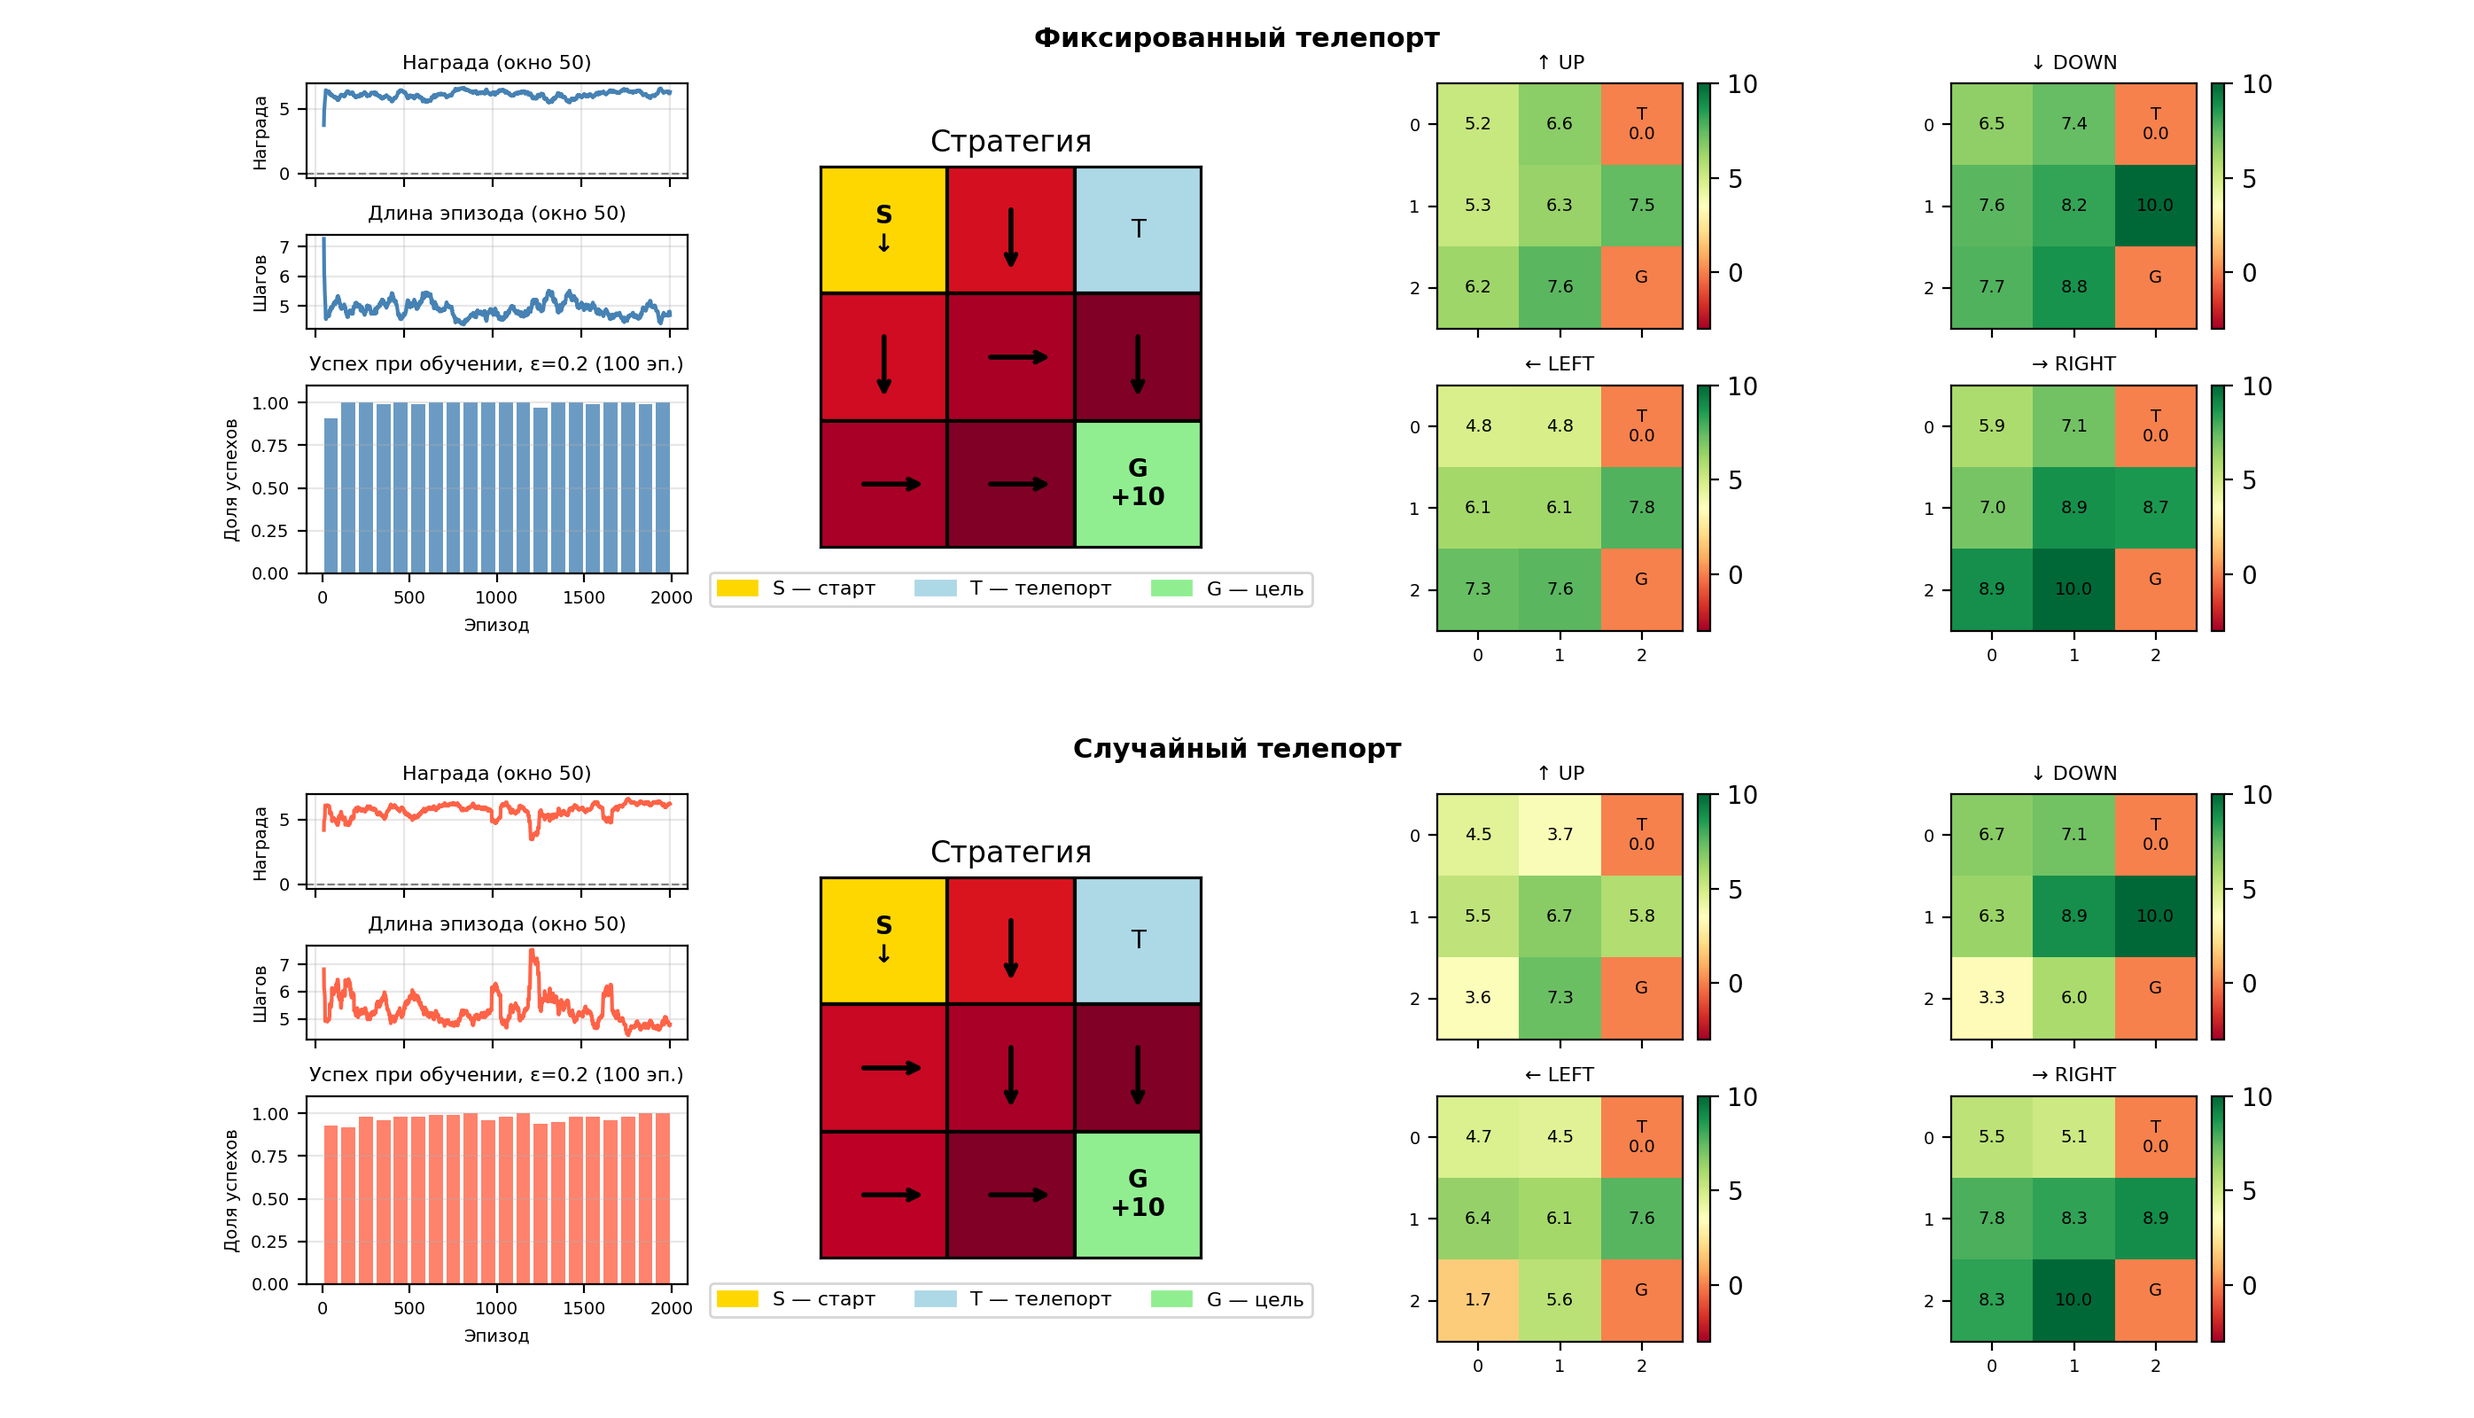
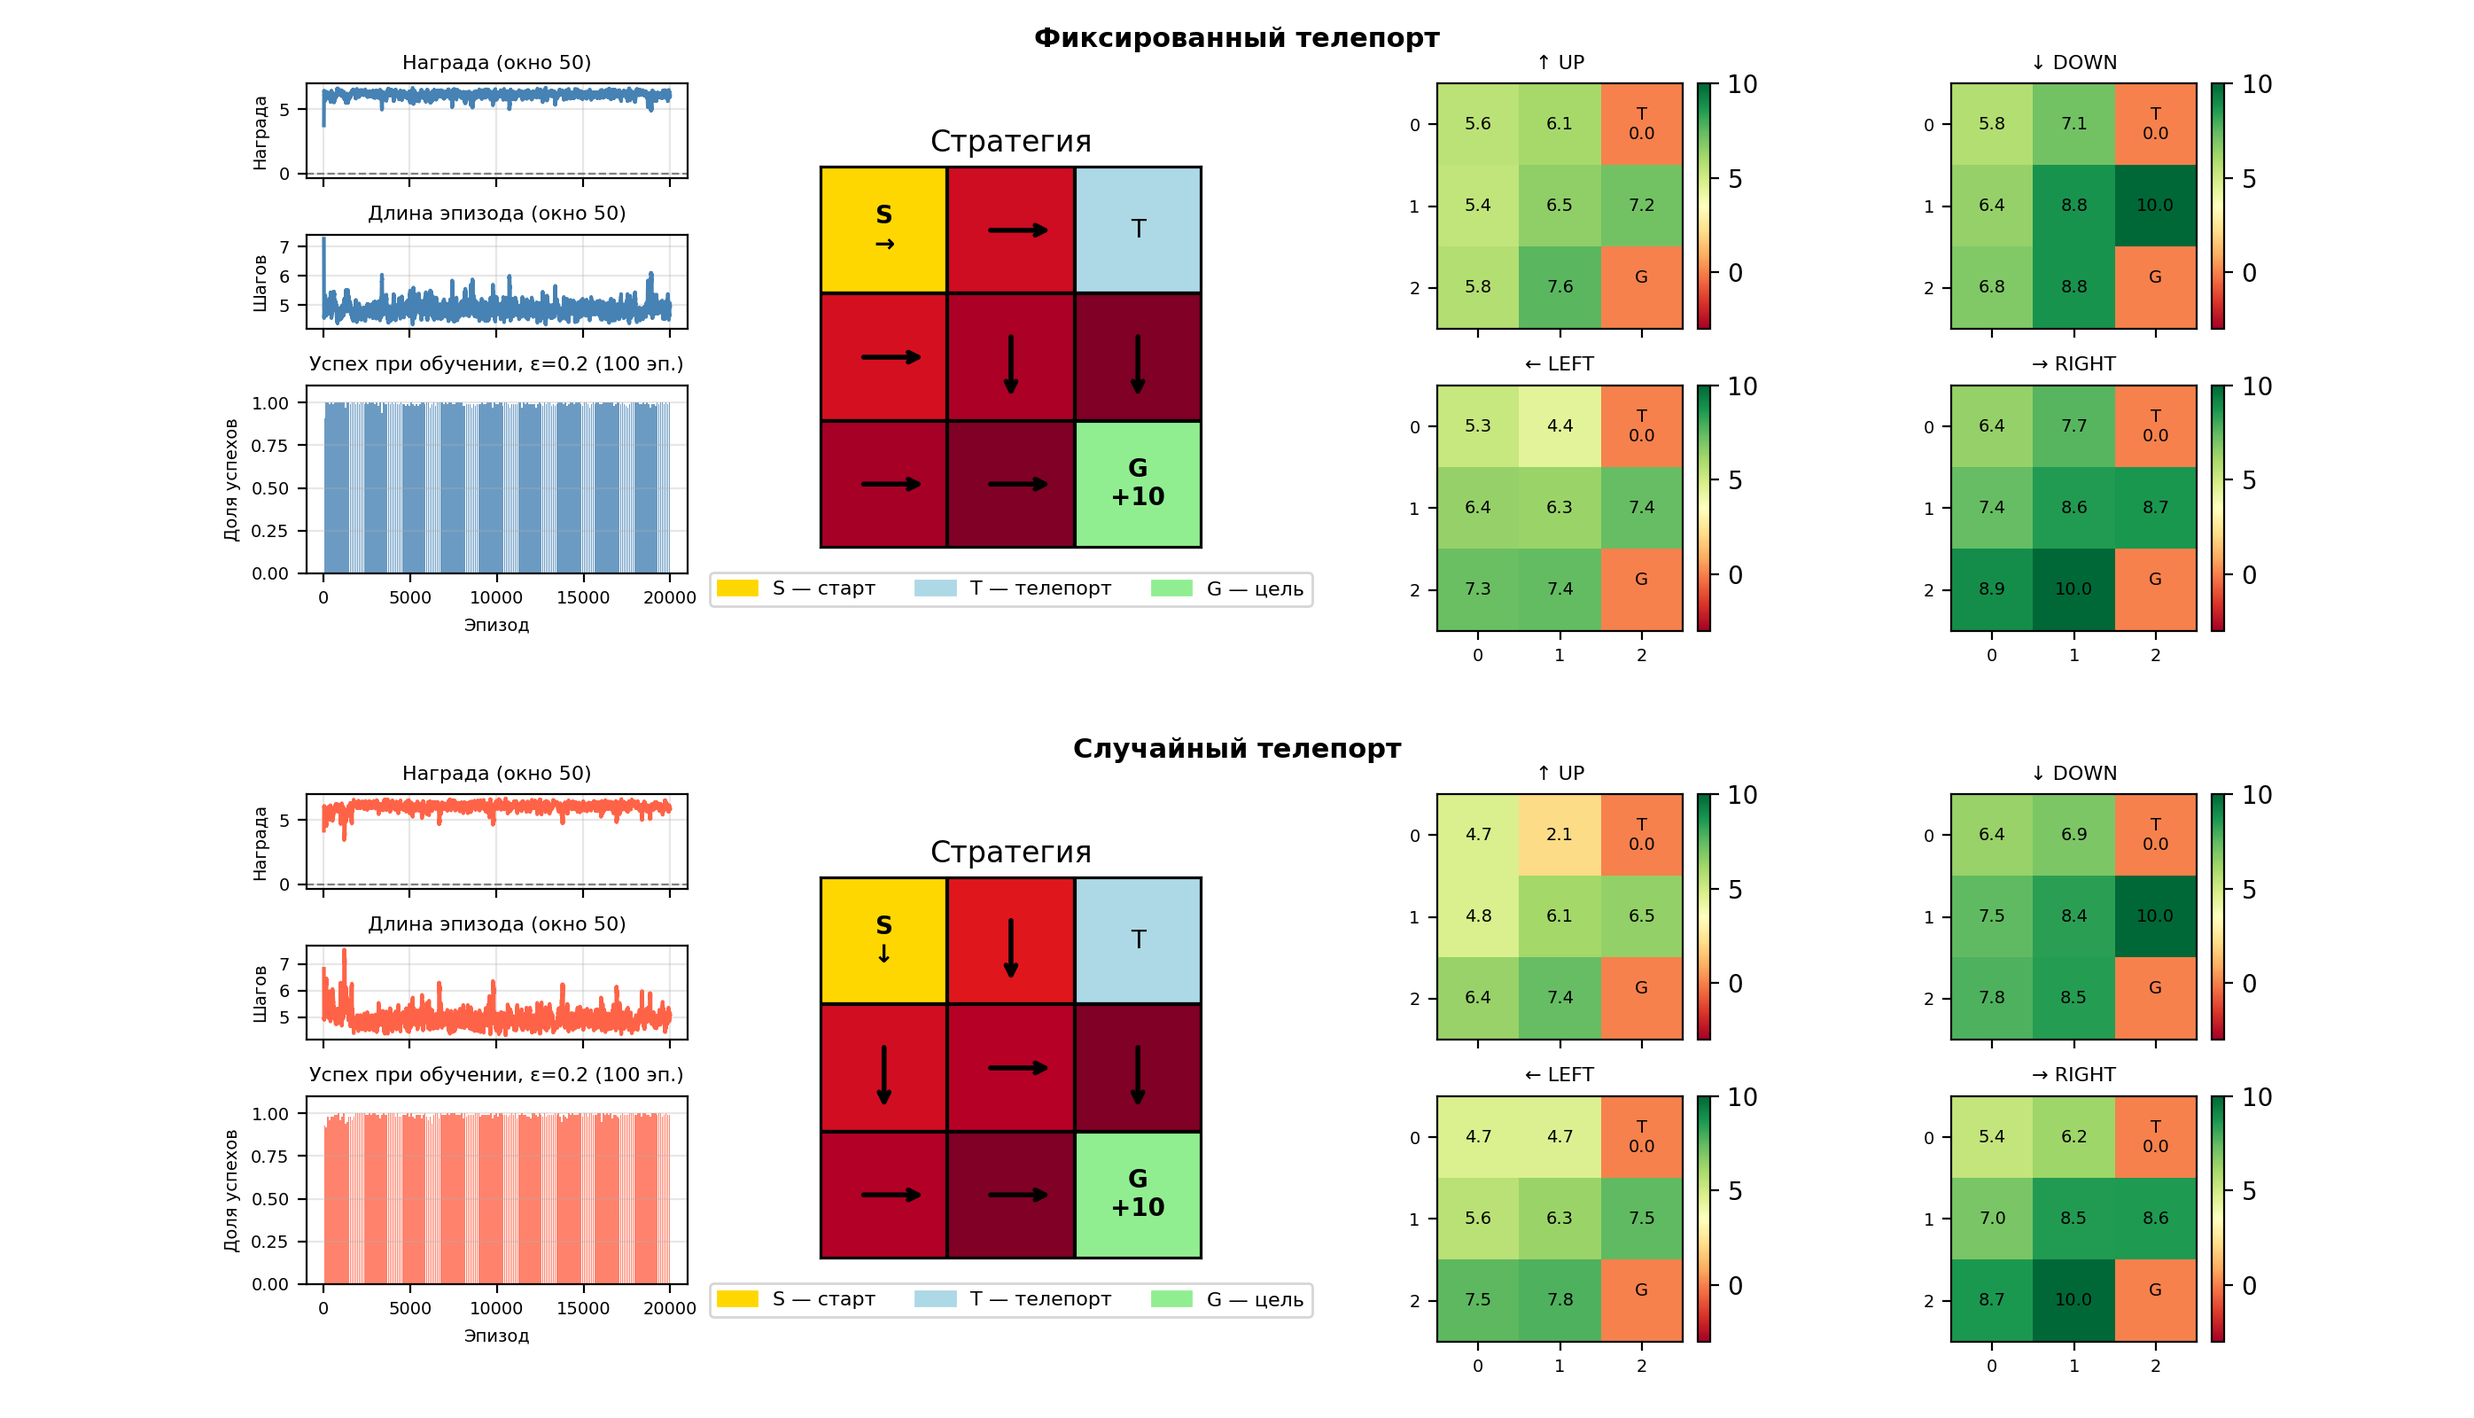
Codex+Mark: finding better number for the amount of episodes and adding information about it into the Reports.

diff --git a/Обучение с подкреплением/Задание 2/my/direct_learning.py b/Обучение с подкреплением/Задание 2/my/direct_learning.py
@@ -451,7 +451,10 @@ def train(env, episodes_count, label):
 
 def main():
     random.seed(42)
-    episodes_count = 2000
+    # episodes_count = 2000
+    # episodes_count = 5000
+    # episodes_count = 10000
+    episodes_count = 20000
 
     print("=" * 50)
     print("  Вариант 9. GridWorld 3×3 с телепортом")
@@ -572,6 +575,13 @@ def main():
   — случайный телепорт непредсказуем: возможно попадание в далёкие
     клетки (например, (0,0)), что увеличивает путь до цели.
 В результате агент в обоих случаях предпочёл детерминированный маршрут.
+
+Выбор количества эпизодов: при 2000 эпизодах агент уже достигает цели
+в 100% жадных запусков, однако оценки Q(s,a) для симметричных направлений
+(например, ↑ и ← из клеток, равноудалённых от цели) заметно расходились —
+Monte Carlo требует много посещений каждой пары (s,a) для сходимости оценок.
+При 20000 эпизодах Q-значения симметричных направлений выравниваются,
+что говорит о более полной сходимости таблицы Q.
 """)
 
     # ── Графики ────────────────────────────────────────────────────────────

diff --git a/Обучение с подкреплением/Задание 2/my/REPORT.md b/Обучение с подкреплением/Задание 2/my/REPORT.md
@@ -39,65 +39,64 @@
     после каждого эпизода вычисляются возвраты G_t = r + γ·G
     и обновляются оценки: Q(s,a) ← Q(s,a) + α·(G_t − Q(s,a)).
 
-Параметры: α=0.1, γ=1.0, ε=0.2, эпизодов=2000.
+Параметры: α=0.1, γ=1.0, ε=0.2, эпизодов=20000.
 
 
 ──────────────────────────────────────────────────
-  Обучение: фиксированный телепорт → (2, 0)  (2000 эпизодов)
+  Обучение: фиксированный телепорт → (2, 0)  (20000 эпизодов)
 ──────────────────────────────────────────────────
   После  100 эп. │ Успех (ε=0): 100%  │ Ср. длина: 4.0 шагов
   После  500 эп. │ Успех (ε=0): 100%  │ Ср. длина: 4.0 шагов
   После 1000 эп. │ Успех (ε=0): 100%  │ Ср. длина: 4.0 шагов
-  После 2000 эп. │ Успех (ε=0): 100%  │ Ср. длина: 4.0 шагов
+  После 20000 эп. │ Успех (ε=0): 100%  │ Ср. длина: 4.0 шагов
 
   Финальная стратегия:
 Таблица Q(s, a) [фиксированный]:
-    (0,0)  ↑=  5.24  ↓=  6.51  ←=  4.80  →=  5.89
-    (0,1)  ↑=  6.64  ↓=  7.38  ←=  4.85  →=  7.11
+    (0,0)  ↑=  5.58  ↓=  5.77  ←=  5.28  →=  6.41
+    (0,1)  ↑=  6.06  ↓=  7.12  ←=  4.45  →=  7.66
    T(0,2)  ↑=  0.00  ↓=  0.00  ←=  0.00  →=  0.00
-    (1,0)  ↑=  5.26  ↓=  7.59  ←=  6.14  →=  7.01
-    (1,1)  ↑=  6.35  ↓=  8.24  ←=  6.14  →=  8.86
-    (1,2)  ↑=  7.46  ↓= 10.00  ←=  7.75  →=  8.66
-    (2,0)  ↑=  6.21  ↓=  7.72  ←=  7.35  →=  8.93
-    (2,1)  ↑=  7.58  ↓=  8.80  ←=  7.60  →= 10.00
+    (1,0)  ↑=  5.42  ↓=  6.43  ←=  6.40  →=  7.37
+    (1,1)  ↑=  6.54  ↓=  8.79  ←=  6.31  →=  8.55
+    (1,2)  ↑=  7.16  ↓= 10.00  ←=  7.38  →=  8.68
+    (2,0)  ↑=  5.78  ↓=  6.80  ←=  7.29  →=  8.95
+    (2,1)  ↑=  7.61  ↓=  8.81  ←=  7.43  →= 10.00
 
 Стратегия агента [фиксированный]:
+  [→] →  T 
+   →  ↓  ↓ 
+   →  →  G 
+
+Анализ телепорта [фиксированный]:
+  Q((0,1), →)=7.66  Q((0,1), ↓)=7.12
+  Вывод: агент предпочитает использовать телепорт — он сокращает путь к цели.
+
+
+──────────────────────────────────────────────────
+  Обучение: случайный телепорт  (20000 эпизодов)
+──────────────────────────────────────────────────
+  После  100 эп. │ Успех (ε=0): 100%  │ Ср. длина: 4.0 шагов
+  После  500 эп. │ Успех (ε=0): 100%  │ Ср. длина: 4.0 шагов
+  После 1000 эп. │ Успех (ε=0): 100%  │ Ср. длина: 4.0 шагов
+  После 20000 эп. │ Успех (ε=0): 100%  │ Ср. длина: 4.0 шагов
+
+  Финальная стратегия:
+Таблица Q(s, a) [случайный]:
+    (0,0)  ↑=  4.72  ↓=  6.39  ←=  4.69  →=  5.36
+    (0,1)  ↑=  2.08  ↓=  6.92  ←=  4.67  →=  6.22
+   T(0,2)  ↑=  0.00  ↓=  0.00  ←=  0.00  →=  0.00
+    (1,0)  ↑=  4.75  ↓=  7.51  ←=  5.60  →=  6.99
+    (1,1)  ↑=  6.13  ↓=  8.39  ←=  6.31  →=  8.54
+    (1,2)  ↑=  6.48  ↓= 10.00  ←=  7.47  →=  8.63
+    (2,0)  ↑=  6.38  ↓=  7.78  ←=  7.53  →=  8.67
+    (2,1)  ↑=  7.40  ↓=  8.50  ←=  7.81  →= 10.00
+
+Стратегия агента [случайный]:
   [↓] ↓  T 
    ↓  →  ↓ 
    →  →  G 
 
-Анализ телепорта [фиксированный]:
-  Q((0,1), →)=7.11  Q((0,1), ↓)=7.38
-  Вывод: агент предпочитает обходить телепорт — телепорт не сокращает путь,
-         но добавляет неопределённость: из (2,0) можно уйти дальше от цели.
-
-
-──────────────────────────────────────────────────
-  Обучение: случайный телепорт  (2000 эпизодов)
-──────────────────────────────────────────────────
-  После  100 эп. │ Успех (ε=0): 100%  │ Ср. длина: 4.0 шагов
-  После  500 эп. │ Успех (ε=0): 100%  │ Ср. длина: 4.0 шагов
-  После 1000 эп. │ Успех (ε=0): 100%  │ Ср. длина: 4.0 шагов
-  После 2000 эп. │ Успех (ε=0): 100%  │ Ср. длина: 4.0 шагов
-
-  Финальная стратегия:
-Таблица Q(s, a) [случайный]:
-    (0,0)  ↑=  4.50  ↓=  6.67  ←=  4.71  →=  5.53
-    (0,1)  ↑=  3.66  ↓=  7.12  ←=  4.54  →=  5.11
-   T(0,2)  ↑=  0.00  ↓=  0.00  ←=  0.00  →=  0.00
-    (1,0)  ↑=  5.47  ↓=  6.32  ←=  6.40  →=  7.84
-    (1,1)  ↑=  6.65  ↓=  8.90  ←=  6.11  →=  8.30
-    (1,2)  ↑=  5.81  ↓= 10.00  ←=  7.62  →=  8.95
-    (2,0)  ↑=  3.61  ↓=  3.31  ←=  1.68  →=  8.33
-    (2,1)  ↑=  7.30  ↓=  5.98  ←=  5.61  →= 10.00
-
-Стратегия агента [случайный]:
-  [↓] ↓  T 
-   →  ↓  ↓ 
-   →  →  G 
-
 Анализ телепорта [случайный]:
-  Q((0,1), →)=5.11  Q((0,1), ↓)=7.12
+  Q((0,1), →)=6.22  Q((0,1), ↓)=6.92
   Вывод: агент предпочитает обходить телепорт — его исход непредсказуем:
          иногда он переносит ближе к цели (напр. (2,1), (1,2)),
          но в среднем матожидание хуже, чем у прямого маршрута.
@@ -113,7 +112,7 @@
 
 Оба агента успешно обучились достигать цели G (успех ε=0: 100%).
 
-Фиксированный телепорт: агент обходит телепорт, предпочитая прямой путь.
+Фиксированный телепорт: агент использует телепорт как ярлык.
 Случайный телепорт    : агент обходит телепорт, предпочитая прямой путь.
 
 Оба режима телепорта оказались невыгодными:
@@ -122,3 +121,10 @@
   — случайный телепорт непредсказуем: возможно попадание в далёкие
     клетки (например, (0,0)), что увеличивает путь до цели.
 В результате агент в обоих случаях предпочёл детерминированный маршрут.
+
+Выбор количества эпизодов: при 2000 эпизодах агент уже достигает цели
+в 100% жадных запусков, однако оценки Q(s,a) для симметричных направлений
+(например, ↑ и ← из клеток, равноудалённых от цели) заметно расходились —
+Monte Carlo требует много посещений каждой пары (s,a) для сходимости оценок.
+При 20000 эпизодах Q-значения симметричных направлений выравниваются,
+что говорит о более полной сходимости таблицы Q.
